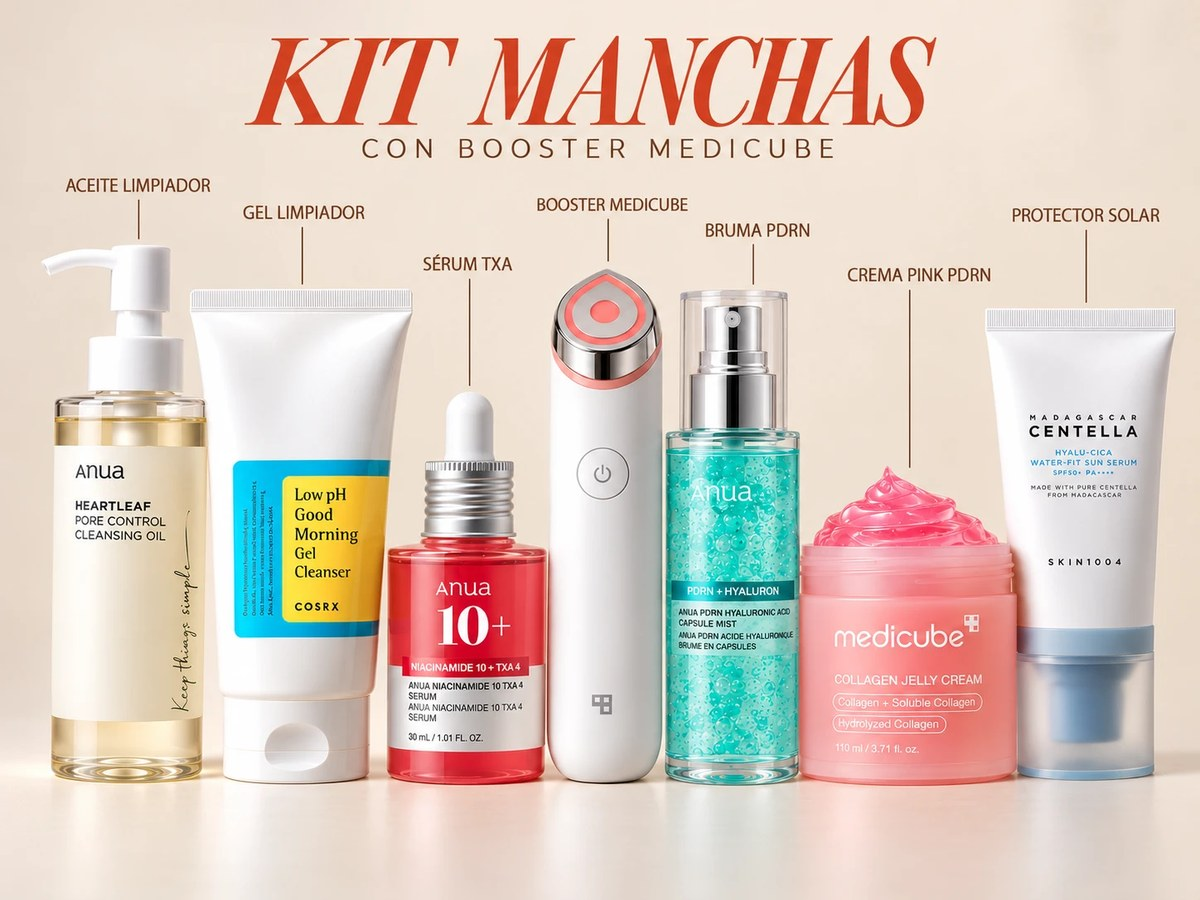
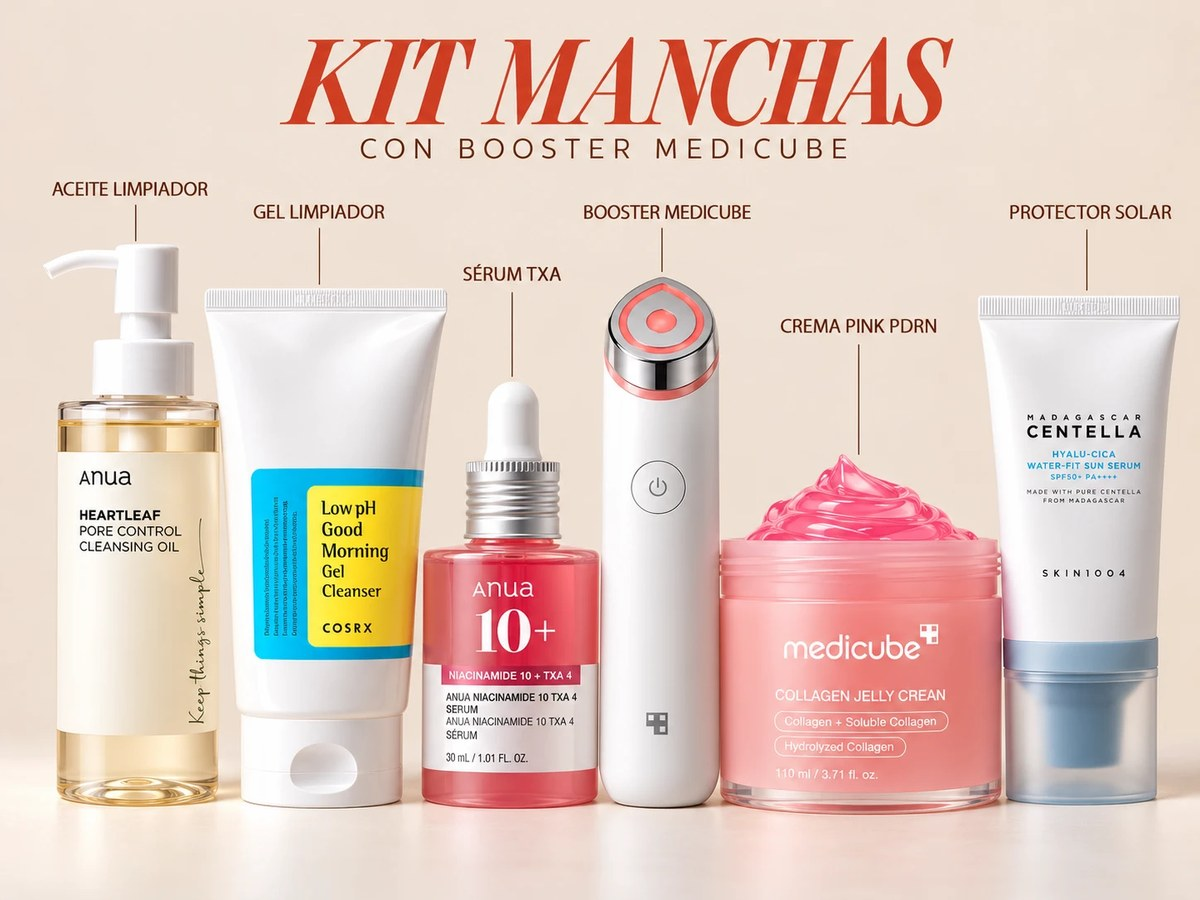
Fotos de gel COSRX, TXA y SKIN1004; Kit Manchas sin bruma a $229; ocultar masajeador tensor

diff --git a/index.html b/index.html
@@ -318,9 +318,9 @@ var P = [
   {id:"kit-booster", paso:"kits", kit:true, marca:"Rutina completa", nombre:"Kit completo con booster", pedidoNombre:"Kit completo con booster", precio:259, separado:280, img:"img/kit-con-booster.jpg", oculto:true,
    incluye:ANUA, extra:"Booster medicube AGE-R Mini",
    desc:"La rutina completa, de la doble limpieza a la crema, más el booster de medicube, que ayuda a que tu sérum y tu crema rindan más."},
-  {id:"kit-manchas", paso:"kits", kit:true, marca:"Kit con booster", nombre:"Kit Manchas", pedidoNombre:"Kit Manchas con booster", precio:259, separado:282, img:"img/kit-manchas.jpg",
-   incluye:["Aceite limpiador Anua","Gel limpiador COSRX","Sérum Niacinamide + TXA Anua","Bruma PDRN Anua","Crema medicube PDRN Pink","Protector SKIN1004 Sun Serum"], extra:"Booster medicube AGE-R Mini",
-   desc:"Niacinamida y ácido tranexámico para que las manchas se vean más claras, crema con niacinamida y PDRN, bruma hidratante y protector todos los días, más el booster."},
+  {id:"kit-manchas", paso:"kits", kit:true, marca:"Kit con booster", nombre:"Kit Manchas", pedidoNombre:"Kit Manchas con booster", precio:229, separado:246, img:"img/kit-manchas.jpg?v=2",
+   incluye:["Aceite limpiador Anua","Gel limpiador COSRX","Sérum Niacinamide + TXA Anua","Crema medicube PDRN Pink","Protector SKIN1004 Sun Serum"], extra:"Booster medicube AGE-R Mini",
+   desc:"Niacinamida y ácido tranexámico para que las manchas se vean más claras, crema con niacinamida y PDRN, y protector todos los días, más el booster."},
   {id:"kit-seca", paso:"kits", kit:true, marca:"Kit con booster", nombre:"Kit Piel seca o madura", pedidoNombre:"Kit Piel seca o madura con booster", precio:259, separado:280, img:"img/kit-seca.jpg",
    incluye:["Aceite limpiador Anua","Espuma limpiadora Anua","Sérum PDRN Anua","Bruma PDRN Anua","Crema MEDIPEEL Peptide 9","Protector SKIN1004 Sun Serum"], extra:"Booster medicube AGE-R Mini",
    desc:"Hidratación en capas con sérum y bruma PDRN, y péptidos con colágeno para que la piel se vea más firme, más el booster."},
@@ -336,7 +336,7 @@ var P = [
   {id:"anua-espuma", paso:"limpia", marca:"Anua", nombre:"Heartleaf Succinic Moisture Cleansing Foam", medida:"150 ml", precio:20, stock:2, img:"img/anua-espuma.jpg",
    desc:"Segundo paso: espuma suave que limpia sin dejar la piel tirante."},
 
-  {id:"cosrx-gel", paso:"limpia", marca:"COSRX", nombre:"Low pH Good Morning Gel Cleanser", medida:"150 ml", precio:20, stock:2,
+  {id:"cosrx-gel", paso:"limpia", marca:"COSRX", nombre:"Low pH Good Morning Gel Cleanser", medida:"150 ml", precio:20, stock:2, img:"img/cosrx-gel.jpg",
    etiqueta:["COSRX","Low pH","Gel cleanser"],
    desc:"Gel limpiador suave de pH bajo: limpia sin dejar la piel tirante. Segundo paso de la doble limpieza."},
 
@@ -354,7 +354,7 @@ var P = [
   {id:"boj", paso:"trata", marca:"Beauty of Joseon", nombre:"Revive Eye Serum: Ginseng + Retinal", medida:"30 ml", precio:19, stock:2, img:"img/boj.jpg",
    desc:"Ginseng y retinal para el contorno de ojos. Úsalo de noche."},
 
-  {id:"anua-txa", paso:"trata", marca:"Anua", nombre:"Niacinamide 10 + TXA 4 Serum", medida:"30 ml", precio:30, stock:3,
+  {id:"anua-txa", paso:"trata", marca:"Anua", nombre:"Niacinamide 10 + TXA 4 Serum", medida:"30 ml", precio:30, stock:3, img:"img/anua-txa.jpg",
    etiqueta:["Anua","Niacinamide 10","TXA 4"],
    desc:"Niacinamida 10%, ácido tranexámico 4% y arbutina. Ayuda a que las manchas y el tono se vean más parejos."},
 
@@ -367,7 +367,7 @@ var P = [
    desc:"Luz LED y vibración para cuello y rostro, con 7 modos y pantalla."},
   {id:"mas-rec", paso:"potencia", marca:"Aparato", nombre:"Masajeador de cuello recargable", medida:"Recargable", precio:20, stock:1, img:"img/masajeador-recargable.jpg",
    desc:"Para relajar cuello y mandíbula al final del día."},
-  {id:"mas-tensor", paso:"potencia", marca:"Aparato", nombre:"Masajeador tensor facial", medida:"Multifuncional", precio:20, stock:0, agotado:true, img:"img/masajeador-tensor.jpg",
+  {id:"mas-tensor", paso:"potencia", marca:"Aparato", nombre:"Masajeador tensor facial", medida:"Multifuncional", precio:20, stock:0, agotado:true, oculto:true, img:"img/masajeador-tensor.jpg",
    desc:"Masajeador facial compacto y fácil de usar, para tus cinco minutos de la mañana."},
 
   {id:"medicube-crema", paso:"hidrata", marca:"medicube", nombre:"PDRN Pink Collagen Capsule Cream", medida:"55 g", precio:30, stock:3, img:"img/medicube-crema.jpg",
@@ -386,7 +386,7 @@ var P = [
    etiqueta:["MQNY","Collagen Vita","Multi balm"],
    desc:"Bálsamo en barra con colágeno y vitaminas. Para llevar en la cartera y retocar."},
 
-  {id:"skin1004-sol", paso:"protege", marca:"SKIN1004", nombre:"Hyalu-Cica Water-Fit Sun Serum SPF50+", medida:"50 ml", precio:19, stock:3,
+  {id:"skin1004-sol", paso:"protege", marca:"SKIN1004", nombre:"Hyalu-Cica Water-Fit Sun Serum SPF50+", medida:"50 ml", precio:19, stock:3, img:"img/skin1004-sol.jpg",
    etiqueta:["SKIN1004","Hyalu-Cica","Sun Serum"],
    desc:"Protector en textura de sérum, ligero y sin rastro blanco. Hidrata con centella y ácido hialurónico."},
   {id:"purito", paso:"protege", marca:"Purito", nombre:"Daily Soft Touch Sunscreen SPF50+ PA++++", medida:"60 ml", precio:25, stock:1, img:"img/purito.jpg",
